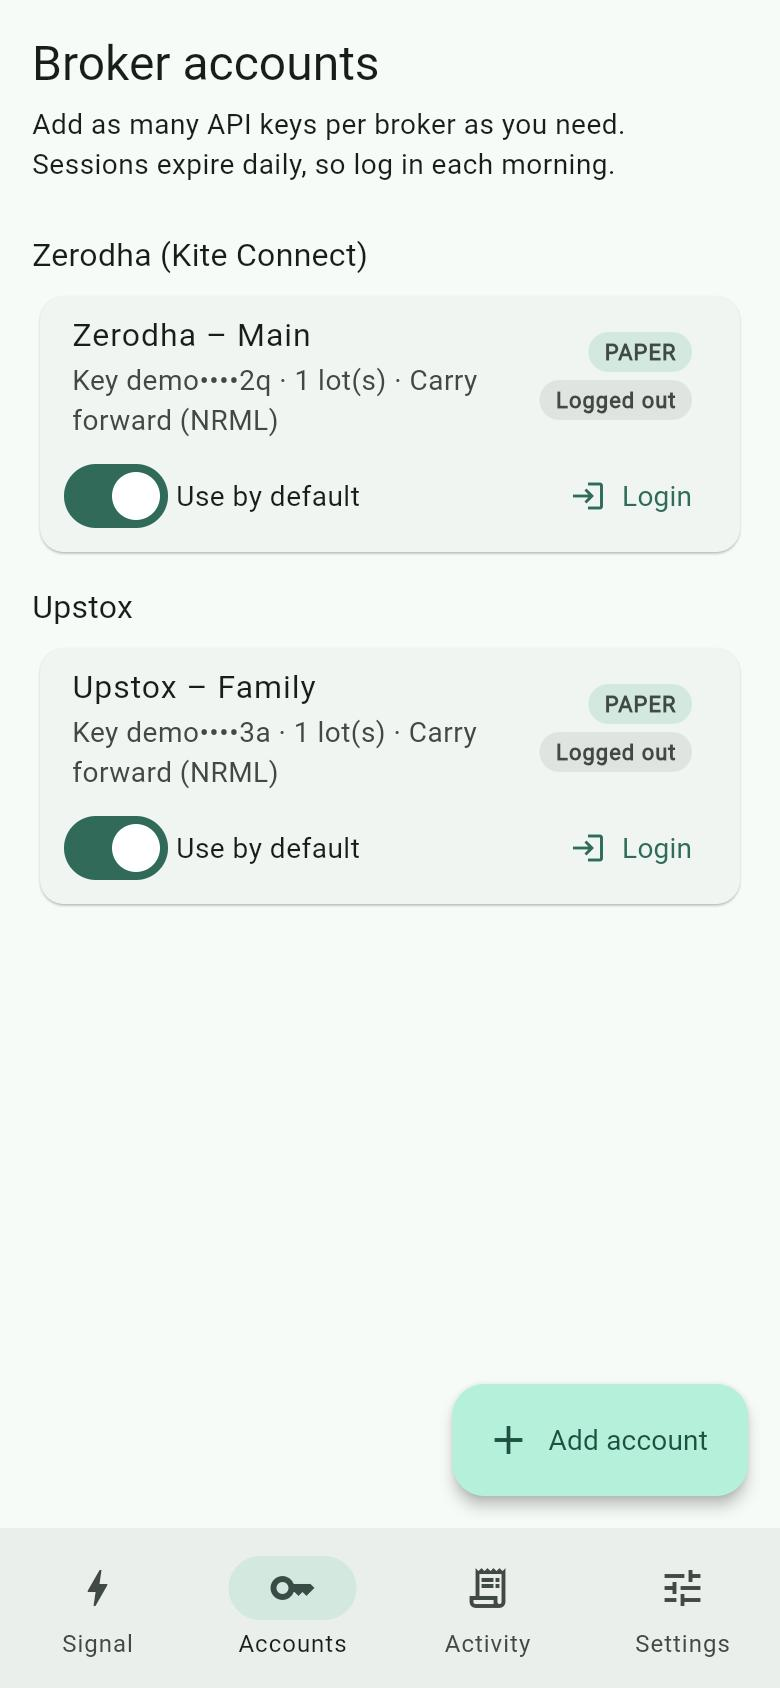
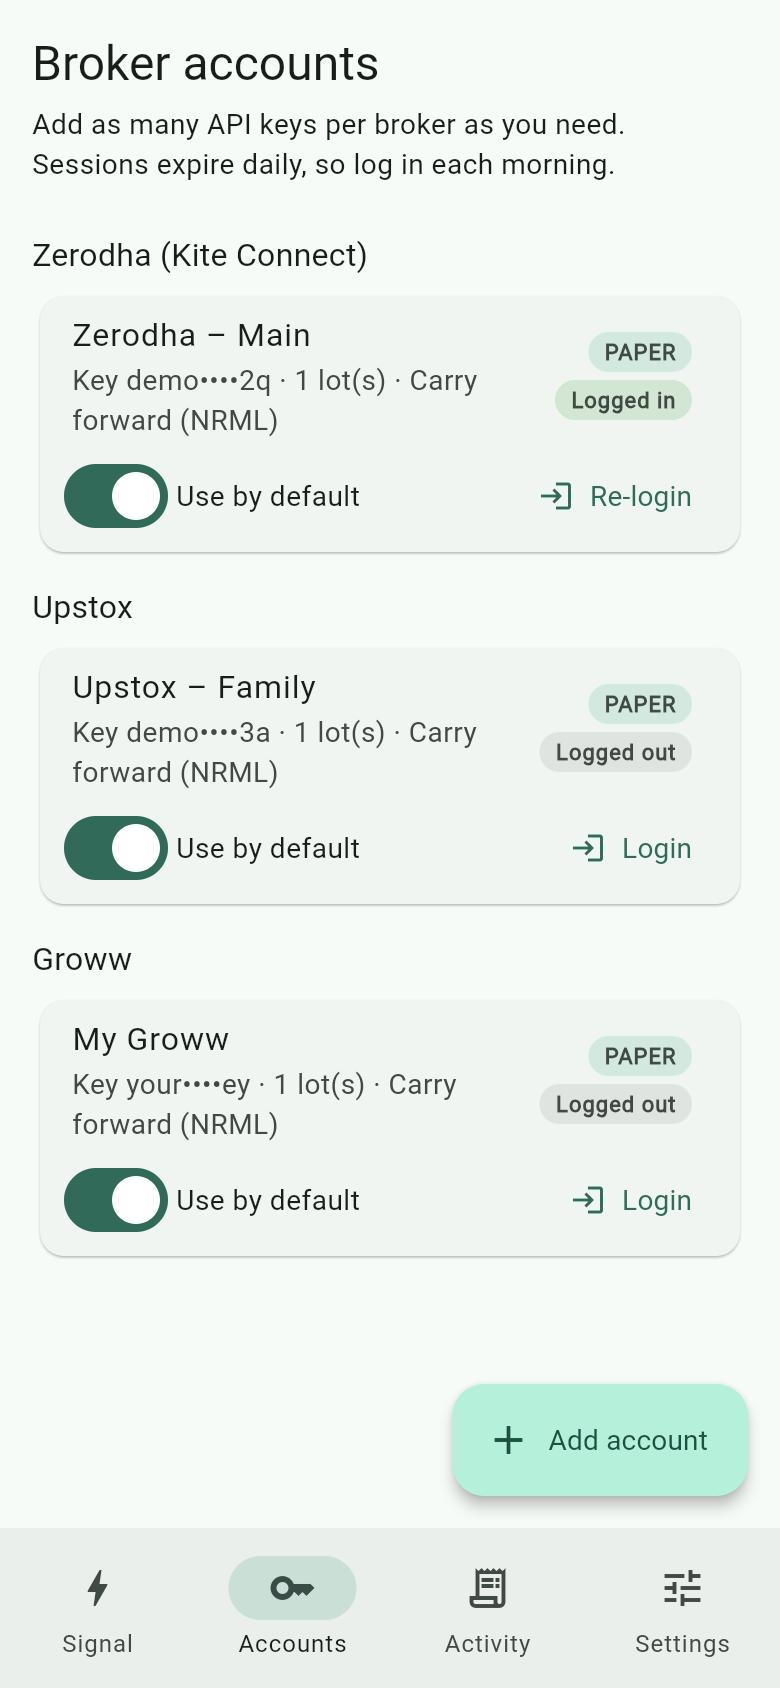
README: bring up to date with the code
Add a CI badge, features list, broker comparison table (login, session
expiry, contract lookup, orders, exits, plan), the accepted signal
format, platform build commands, the full repository layout and current
test numbers. Document Groww's login and entry-only orders throughout.
Refresh the accounts and add-account screenshots to show all three
brokers.

diff --git a/README.md b/README.md
@@ -1,12 +1,14 @@
 # NexoraApp
 
+[![CI](https://github.com/palepujanakiram/nexora-app/actions/workflows/ci.yml/badge.svg)](https://github.com/palepujanakiram/nexora-app/actions/workflows/ci.yml)
+
 Flutter app (iOS, Android, web) that turns option signals like
 
 ```
 BUY SENSEX 29 OCT 73100 PUT AT 400-420 WITH SL OF 300 TGT1 540, TGT2 600
 ```
 
-into orders on any number of Zerodha (Kite Connect), Upstox and Groww accounts.
+into orders on any number of **Zerodha (Kite Connect)**, **Upstox** and **Groww** accounts.
 
 <p align="center">
   <img src="docs/screenshots/signal.jpg" width="200" alt="Signal screen">
@@ -15,23 +17,47 @@ into orders on any number of Zerodha (Kite Connect), Upstox and Groww accounts.
   <img src="docs/screenshots/settings.jpg" width="200" alt="Settings screen">
 </p>
 
+## Features
+
+- **Many accounts, three brokers:** add any number of API keys per broker and pick which accounts each signal runs on.
+- **Signal parsing:** paste a signal in plain text; the app shows exactly what it understood before anything is sent.
+- **Paper mode by default:** new accounts simulate orders. When logged in, paper trades still look up the real contract and lot size.
+- **Live orders with a confirmation:** a LIMIT entry and, for Zerodha and Upstox, a stop loss and target managed by the broker (GTT).
+- **Activity log** of every execution, with order IDs or errors.
+- **Secure key storage** (Keychain on iOS, Keystore-encrypted on Android).
+- **Settings:** theme colour, entry price within the range, exit orders, target choice, and a web CORS proxy with a built-in setup guide and health check.
+
+## Supported brokers
+
+| | Zerodha (Kite Connect) | Upstox | Groww |
+|---|---|---|---|
+| **Daily login** | Kite login page → paste the redirect URL (`request_token`) | Upstox login page → paste the redirect URL (`code`) | Approve the key on Groww's API keys page → **Generate session** (or a TOTP code) |
+| **Session expires** | 06:00 IST | 03:30 IST | 06:00 IST |
+| **Contract lookup** | Kite instrument list (NFO/BFO) | Option-contract API (indices only) | Groww's public instrument list (NSE/BSE F&O) |
+| **Entry order** | LIMIT (`/orders/regular`) | LIMIT (HFT `/v3/order/place`); with exits on, the entry is a leg of the GTT | LIMIT (`/v1/order/create`) |
+| **Stop loss + target** | Two-leg GTT (OCO) | One GTT `MULTIPLE` order (entry + target + SL) | Not placed: add an OCO in the Groww app after the entry fills |
+| **API plan** | Paid **Connect** plan (needs market data) | Upstox developer app (see the guide) | Trading APIs subscription |
+| **Step-by-step guide** | [Zerodha guide](docs/zerodha-guide.md) | [Upstox guide](docs/upstox-guide.md) | [Groww guide](docs/groww-guide.md) |
+
+Products map to NRML (carry forward) or MIS (intraday) on Zerodha and Groww, and to D or I on Upstox.
+
 ## How it works
 
-The app has four tabs: **Signal**, **Accounts**, **Activity** and **Settings**. Screenshots are from the web build with two demo accounts in paper mode.
+The app has four tabs: **Signal**, **Accounts**, **Activity** and **Settings**. Screenshots are from the web build with demo accounts in paper mode.
 
 ### 1. Add your broker accounts
 
 | | |
 |---|---|
-| <img src="docs/screenshots/add-account.jpg" width="260" alt="Add account form"> | **Accounts → Add account.** Pick the stock broker with the radio buttons (Zerodha, Upstox or Groww); the fields change to match it (Upstox also needs the redirect URI from your Upstox app).<br><br>For each account set the **lots per signal**, the **product** (NRML carry forward or MIS intraday) and **Paper mode**. Paper mode is on by default: the app simulates the orders and sends nothing to the broker.<br><br>Below the form, **How to get your … API keys** lists the steps and links to the broker's developer console and docs. |
-| <img src="docs/screenshots/accounts.jpg" width="260" alt="Accounts list"> | Accounts are grouped by broker, and you can add as many keys per broker as you need. Each card shows the masked key, lots, product, **PAPER** / **LIVE** and whether today's session is active.<br><br>**Use by default** decides whether the account is ticked on the Signal screen.<br><br>**Login** (daily): opens the broker's login page; paste back the URL you land on and the app exchanges the `request_token` (Kite) or `code` (Upstox) for an access token. Kite sessions expire at 06:00 IST and Upstox sessions at 03:30 IST. |
+| <img src="docs/screenshots/add-account.jpg" width="260" alt="Add account form"> | **Accounts → Add account.** Pick the stock broker with the radio buttons (Zerodha, Upstox or Groww); the fields change to match it (Upstox also needs the redirect URI from your Upstox app).<br><br>For each account set the **lots per signal**, the **product** (carry forward or intraday) and **Paper mode**. Paper mode is on by default: the app simulates the orders and sends nothing to the broker.<br><br>Below the form, **How to get your … API keys** lists the steps and links to the broker's developer site and docs. |
+| <img src="docs/screenshots/accounts.jpg" width="260" alt="Accounts list"> | Accounts are grouped by broker, and you can add as many keys per broker as you need. Each card shows the masked key, lots, product, **PAPER** / **LIVE** and whether today's session is active.<br><br>**Use by default** decides whether the account is ticked on the Signal screen.<br><br>**Login** (daily):<ul><li>**Zerodha / Upstox:** **Open login page**, sign in, then paste back the URL you land on; the app exchanges the `request_token` (Kite) or `code` (Upstox) for an access token.</li><li>**Groww:** **Open API keys page**, approve today's access, then tap **Generate session** (or enter a TOTP code first).</li><li>Any broker: paste an access token and tap **It is an access token**.</li></ul> |
 
 ### 2. Paste a signal and execute it
 
 | | |
 |---|---|
-| <img src="docs/screenshots/signal.jpg" width="260" alt="Parsed signal"> | **Signal tab.** Paste the signal and tap **Parse signal**. The card shows what was understood: side, contract (`SENSEX 29 OCT 2026 73100 PE`), exchange (BFO for SENSEX/BANKEX, otherwise NFO), entry range, the limit price that will be used, stop loss, targets and the exit orders.<br><br>Tick the accounts to use and tap **BUY on N account(s)**. The app asks for confirmation, and says whether it's a paper or live trade. |
-| <img src="docs/screenshots/results.jpg" width="260" alt="Execution results"> | The orders go to all selected accounts in parallel. For each account the app:<ul><li>looks up the exact option contract and lot size from the broker (when logged in),</li><li>places a LIMIT entry for `lots × lot size` at the chosen end of the entry range,</li><li>optionally places the stop loss and target on the broker's side:<ul><li>**Zerodha**: entry order + two-leg GTT OCO for SL and target.</li><li>**Upstox**: one GTT `MULTIPLE` order (entry + target + stop loss).</li><li>**Groww**: entry order only. Groww's OCO needs an existing position, so add the SL/target in the Groww app after the entry fills; the result says so.</li></ul></li></ul>Results show the order IDs, or the error, per account. |
+| <img src="docs/screenshots/signal.jpg" width="260" alt="Parsed signal"> | **Signal tab.** Paste the signal and tap **Parse signal**. The card shows what was understood: side, contract (`SENSEX 29 OCT 2026 73100 PE`), exchange (BFO for SENSEX/BANKEX/SENSEX50, otherwise NFO), entry range, the limit price that will be used, stop loss, targets and the exit orders. Warnings (e.g. a stop loss on the wrong side of the entry) are shown on the card.<br><br>Tick the accounts to use and tap **BUY on N account(s)**. The app asks **Run paper trade?** or, if any ticked account is live, **Place LIVE orders?** with the number of accounts that will send real orders. |
+| <img src="docs/screenshots/results.jpg" width="260" alt="Execution results"> | The orders go to all selected accounts in parallel. For each account the app:<ul><li>looks up the exact option contract and lot size from the broker (when logged in),</li><li>places a LIMIT entry for `lots × lot size` at the chosen end of the entry range,</li><li>optionally places the stop loss and target on the broker's side (see [Supported brokers](#supported-brokers)).</li></ul>Results show the order IDs, or the error, per account. Paper trades show `PAPER-…` IDs. A live account must be logged in today; a paper account works logged out too (it then skips the contract lookup). |
 
 ### 3. Review activity
 
@@ -43,8 +69,25 @@ The app has four tabs: **Signal**, **Accounts**, **Activity** and **Settings**. 
 
 | | |
 |---|---|
-| <img src="docs/screenshots/settings.jpg" width="260" alt="Settings"> | <ul><li>**Theme colour**: eleven colours, saved on the device.</li><li>**Limit price within the entry range**: low end, middle or high end (for `AT 400-420`: 400, 410 or 420).</li><li>**Exit orders**: entry only, or entry + stop loss & target (GTT).</li><li>**Target used for the GTT exit**: TGT1–TGT3; falls back to the last target if the signal has fewer.</li><li>**Web CORS proxy** (web only, see below).</li></ul> |
+| <img src="docs/screenshots/settings.jpg" width="260" alt="Settings"> | <ul><li>**Theme colour**: eleven colours, saved on the device.</li><li>**Limit price within the entry range**: low end, middle or high end (for `AT 400-420`: 400, 410 or 420).</li><li>**Exit orders**: entry only, or entry + stop loss & target (GTT). Groww always places the entry only.</li><li>**Target used for the GTT exit**: TGT1–TGT3; falls back to the last target if the signal has fewer.</li><li>**Web CORS proxy** (web only, see below).</li></ul> |
 | <img src="docs/screenshots/proxy-guide.jpg" width="260" alt="Cloudflare Worker proxy guide"> | **Web only.** Browsers block direct calls to the broker APIs, so the web build needs your own proxy. **How to create the proxy** walks you through a free Cloudflare Worker in four steps: **Copy proxy code** copies the worker (or **View code** shows it to select by hand), and the links open Cloudflare's dashboard and docs.<br><br>**Test proxy** checks the URL and tells you whether it's connected, rejecting this app's address, not the NexoraApp proxy, or unreachable. |
+
+## Signal format
+
+```
+<BUY|SELL> <SYMBOL> <DD> <MON> [YYYY] <STRIKE> <CE|PE|CALL|PUT> <entry> [SL <price>] [TGT <price>, <price>, …]
+```
+
+| Part | Accepted forms | Examples |
+|---|---|---|
+| Side and symbol | `BUY` / `SELL`, then the underlying | `BUY NIFTY`, `SELL BANKNIFTY` |
+| Expiry | Day and month name, optional year. Without a year, the next occurrence (today included) is used. | `29 OCT`, `30-OCT-2026`, `3RD NOV` |
+| Strike and type | Number, then `CE`/`CALL` or `PE`/`PUT` | `24500 CE`, `73100 PUT` |
+| Entry | A price or a range, optionally after `AT`, `@`, `ABOVE`, `NEAR`, `AROUND`, `BETWEEN`, `RANGE` or `CMP`; ranges use `-`, `TO`, `/` or `AND` | `AT 400-420`, `@ 120 TO 125`, `ABOVE 95` |
+| Stop loss | `SL`, `STOP LOSS` or `STOPLOSS`, optionally followed by `OF`, `IS`, `AT`, `:` | `WITH SL OF 300`, `SL 160` |
+| Targets | `TGT`, `TARGET(S)` or `TP`, numbered or as a list | `TGT1 540, TGT2 600`, `TARGET 90/70` |
+
+Case and extra spaces don't matter. If the side, symbol, expiry, strike, type or entry can't be found, the app shows an error instead of a plan.
 
 ## How account keys are stored
 
@@ -54,63 +97,28 @@ API keys, secrets and access tokens are stored only through `flutter_secure_stor
 - **Android**: AES-GCM encrypted with a hardware-backed Android Keystore key. Auto Backup is turned off so the encrypted values are never restored onto a device that doesn't have the key.
 - **Web**: encrypted with WebCrypto, but the key lives in the same browser profile. Treat web as convenience only and prefer the mobile apps for live trading accounts.
 
-## Project structure (Clean Architecture)
+Settings and the activity log are kept in `shared_preferences`.
 
-```
-lib/
-  main.dart                 init dependencies, runApp
-  app.dart                  MaterialApp; rebuilds theme from the saved theme colour
-  common/                   code shared by every screen
-    di/injector.dart        get_it wiring: data sources → repositories → use cases
-    domain/                 pure Dart, no Flutter or HTTP
-      entities/             TradeSignal, BrokerAccount, AppSettings, TradePlan, ExecutionResult
-      repositories/         abstract interfaces (accounts, settings, activity, broker)
-      services/             SignalParser, TradePricing
-      usecases/             shared use cases (watch accounts, watch settings)
-    data/
-      models/               JSON mappers for entities
-      datasources/local/    secure storage (keys/tokens), shared preferences
-      datasources/remote/   Zerodha Kite Connect, Upstox and Groww APIs
-      repositories/         repository implementations (in-memory cache + change stream)
-    presentation/           shared widgets and theme
-    error/  utils/
-  screens/<screen>/         signal, accounts, account_edit, activity, settings, home
-    view/                   widgets only; reads state from the view model
-    viewmodel/              ChangeNotifier; calls use cases, exposes state
-    model/                  the screen's UI state / form model
-    usecase/                operations this screen performs
-```
+## Getting started
 
-Dependencies point inward: views → view models → use cases → repository interfaces ← data layer.
-
-## Run
+Requires **Flutter 3.44** (Dart 3.12) or later; CI uses Flutter 3.44.3.
 
 ```bash
 flutter pub get
-flutter run -d chrome     # or an iOS simulator / Android device
+flutter run                   # pick a connected device, simulator or Chrome
 ```
 
-## Tests and coverage
-
-Every change needs tests, and line coverage of `lib/` must stay at or above **95%** (see [CLAUDE.md](CLAUDE.md)).
+Builds:
 
 ```bash
-dart run tool/coverage.dart                      # all tests + 95% gate; lists files below 95%
-cd proxy/cloudflare-worker && npm run coverage   # worker tests + 95% gate
+flutter build apk             # Android (applicationId com.janakiram.nexora_app)
+flutter build ios             # iOS (bundle ID com.janakiram.nexoraApp; needs Xcode and signing)
+flutter build web             # web, served from build/web (needs the CORS proxy below)
 ```
 
-`tool/coverage.dart` counts every file under `lib/`, including files no test imports, so untested code can't hide. The [CI workflow](.github/workflows/ci.yml) runs both checks on every pull request and push to `main`, and uploads the Flutter coverage to qlty.
+**Web needs a CORS proxy.** Browsers block direct calls to `api.kite.trade`, `api.upstox.com` and `api.groww.in`. Put your own proxy URL in **Settings → Web CORS proxy**; it's prepended to every API URL. iOS and Android don't need one. A ready-made Cloudflare Worker for testing (orders blocked by default) is in [proxy/cloudflare-worker](proxy/cloudflare-worker/README.md), and the app has a step-by-step guide for it under Settings.
 
-## Notes and limits
-
-- **Web needs a CORS proxy.** Browsers block direct calls to `api.kite.trade` / `api.upstox.com` / `api.groww.in`. Put your own proxy URL in Settings; it is prepended to every API URL. iOS and Android don't need one. A ready-made Cloudflare Worker for testing (orders blocked by default) is in [proxy/cloudflare-worker](proxy/cloudflare-worker/README.md).
-- **Upstox** contract lookup currently covers indices only (NIFTY, BANKNIFTY, FINNIFTY, MIDCPNIFTY, SENSEX, BANKEX).
-- **Groww**: entry orders only (no stop loss/target), and login needs the API key approved on Groww's API keys page each day.
-- The Kite GTT stop-loss leg uses a limit price 5% past the trigger so it still fills on a fast move.
-- **Verify with paper mode and one lot first.** The broker API calls follow the published docs but haven't been run against live accounts.
-- **Regulation:** SEBI's 2025 retail algo-trading framework applies to API orders (static IP whitelisting, order-rate limits, broker registration of algos). Check what your brokers require before running this live.
-
-## Testing with the real Zerodha, Upstox and Groww APIs
+## Testing with the real broker APIs
 
 Step-by-step guides for each broker, written for non-programmers and with screenshots:
 
@@ -123,9 +131,9 @@ Each guide goes through the same six parts:
 | Part | What you do | Sends real orders? |
 |---|---|---|
 | 1. Get ready | F&O enabled on your broker account, NexoraApp on your phone | No |
-| 2. Create the broker's API app | Get an API key and secret from the broker's developer site | No |
+| 2. Create the broker's API app or key | Get an API key and secret from the broker's developer site | No |
 | 3. Add the account in NexoraApp | Enter the key and secret; **Paper mode** stays on | No |
-| 4. Log in (every trading day) | **Login → Open login page**, sign in, paste the address you land on, **Generate session**. Groww: approve the key on its API keys page, then **Generate session**. | No |
+| 4. Log in (every trading day) | Zerodha/Upstox: **Login → Open login page**, sign in, paste the address you land on, **Generate session**. Groww: approve the key on its API keys page, then **Generate session**. | No |
 | 5. Paper trade | Run a signal for a real contract: the app looks up the real contract and lot size but places nothing | No |
 | 6. Live trade | Register a static IP, turn **Paper mode** off, confirm **Place LIVE orders?**, then check the order in the broker's app | **Yes** |
 
@@ -135,5 +143,67 @@ Key points before going live:
 - **A static IP is required for API orders** under SEBI's rules (Zerodha has enforced it since 1 April 2025, Upstox since 1 April 2026; check Groww's requirement on its API keys page). Get one from your broadband provider or a VPN with a dedicated IP, and register it on the broker's developer site.
 - **Zerodha:** choose the paid **Connect** plan (₹500/month). The free Personal plan has no market data, which the app needs to find contracts.
 - **Upstox:** only index options are supported for now (NIFTY, BANKNIFTY, FINNIFTY, MIDCPNIFTY, SENSEX, BANKEX).
-- **Groww:** needs a Trading APIs subscription. Each day you approve the key on Groww's API keys page, then tap **Generate session**. NexoraApp places the entry only; add the stop loss and target in the Groww app after it fills.
+- **Groww:** needs a Trading APIs subscription. NexoraApp places the entry only; add the stop loss and target in the Groww app after it fills.
 - The live order code follows each broker's published documentation but hasn't yet been run against a real account. Start with 1 lot, and cancel or exit trades in the broker's own app; NexoraApp only places orders.
+
+## Project structure (Clean Architecture)
+
+```
+lib/
+  main.dart                 init dependencies, runApp
+  app.dart                  MaterialApp; rebuilds theme from the saved theme colour
+  common/                   code shared by every screen
+    di/injector.dart        get_it wiring: data sources → repositories → use cases
+    domain/                 pure Dart, no Flutter or HTTP
+      entities/             TradeSignal, BrokerAccount, AppSettings, TradePlan, ExecutionResult, ProxyHealth
+      repositories/         abstract interfaces (accounts, settings, activity, broker, proxy)
+      services/             SignalParser, TradePricing
+      usecases/             shared use cases (watch accounts, watch settings)
+    data/
+      models/               JSON mappers for entities
+      datasources/local/    secure storage (keys/tokens), shared preferences
+      datasources/remote/   Zerodha (Kite Connect), Upstox and Groww APIs, shared HTTP helpers
+      repositories/         repository implementations (in-memory cache + change stream; broker routing; proxy check)
+    presentation/           shared widgets and theme
+    error/  utils/
+  screens/<screen>/         signal, accounts, account_edit, activity, settings, home
+    view/                   widgets only; reads state from the view model
+    viewmodel/              ChangeNotifier; calls use cases, exposes state
+    model/                  the screen's UI state / form model
+    usecase/                operations this screen performs
+```
+
+Dependencies point inward: views → view models → use cases → repository interfaces ← data layer.
+
+Rest of the repository:
+
+```
+test/                       tests mirroring lib/ (fakes in test/fakes.dart)
+tool/coverage.dart          runs the tests with the 95% coverage gate
+proxy/cloudflare-worker/    CORS proxy for the web build (Cloudflare Worker + tests)
+docs/                       broker guides and screenshots
+.github/workflows/ci.yml    CI: analyze, Flutter and worker coverage gates, qlty upload
+.qlty/qlty.toml             qlty code-quality configuration
+CLAUDE.md                   project conventions, including the mandatory test coverage rule
+```
+
+## Tests and coverage
+
+Every change needs tests, and line coverage of `lib/` must stay at or above **95%** (see [CLAUDE.md](CLAUDE.md)). Currently 333 Flutter tests at 99.86% line coverage, and 11 worker tests at 100%.
+
+```bash
+flutter analyze                                  # must report no issues
+dart run tool/coverage.dart                      # all tests + 95% gate; lists files below 95%
+cd proxy/cloudflare-worker && npm run coverage   # worker tests + 95% gate
+```
+
+`tool/coverage.dart` counts every file under `lib/`, including files no test imports, so untested code can't hide. Broker APIs are tested against mocked HTTP responses; tests never call real brokers. The [CI workflow](.github/workflows/ci.yml) runs all three checks on every pull request and push to `main`, and uploads the Flutter coverage to qlty.
+
+## Notes and limits
+
+- **Verify with paper mode and one lot first.** The broker API calls follow the published docs but haven't been run against live accounts.
+- **NexoraApp only places orders.** Cancel orders, change GTTs and exit positions in the broker's own app.
+- **Upstox** contract lookup currently covers indices only (NIFTY, BANKNIFTY, FINNIFTY, MIDCPNIFTY, SENSEX, BANKEX).
+- **Groww**: entry orders only (no stop loss/target), and login needs the API key approved on Groww's API keys page each day.
+- The Kite GTT stop-loss leg uses a limit price 5% past the trigger so it still fills on a fast move.
+- **Regulation:** SEBI's retail algo-trading framework applies to API orders (static IP whitelisting, order-rate limits, broker registration of algos). Check what your brokers require before running this live.
